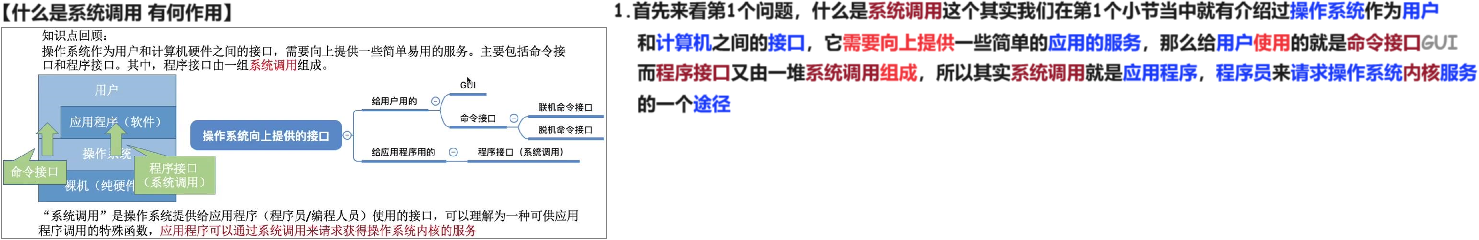
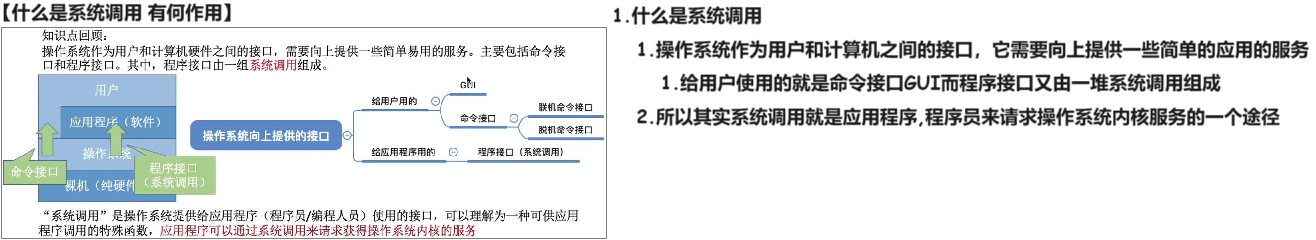
240603

diff --git a/01 初试/01 OS/02 24 25 王道/01 基础/01 计算机系统 概述/03 操作系统 运行环境/03 系统调用 240604/02 消化/02 Doc.md b/01 初试/01 OS/02 24 25 王道/01 基础/01 计算机系统 概述/03 操作系统 运行环境/03 系统调用 240604/02 消化/02 Doc.md
@@ -10,7 +10,7 @@
 
 # 02 什么是系统调用 有何作用
 
-<img src="https://cvp.oss-cn-shanghai.aliyuncs.com/picgo/202405181152941.png" alt="image-20240518115230820" style="zoom:50%;" />
+<img src="https://cvp.oss-cn-shanghai.aliyuncs.com/picgo/202406032207044.png" alt="image-20240603220728892" style="zoom:50%;" />
 
 
 
